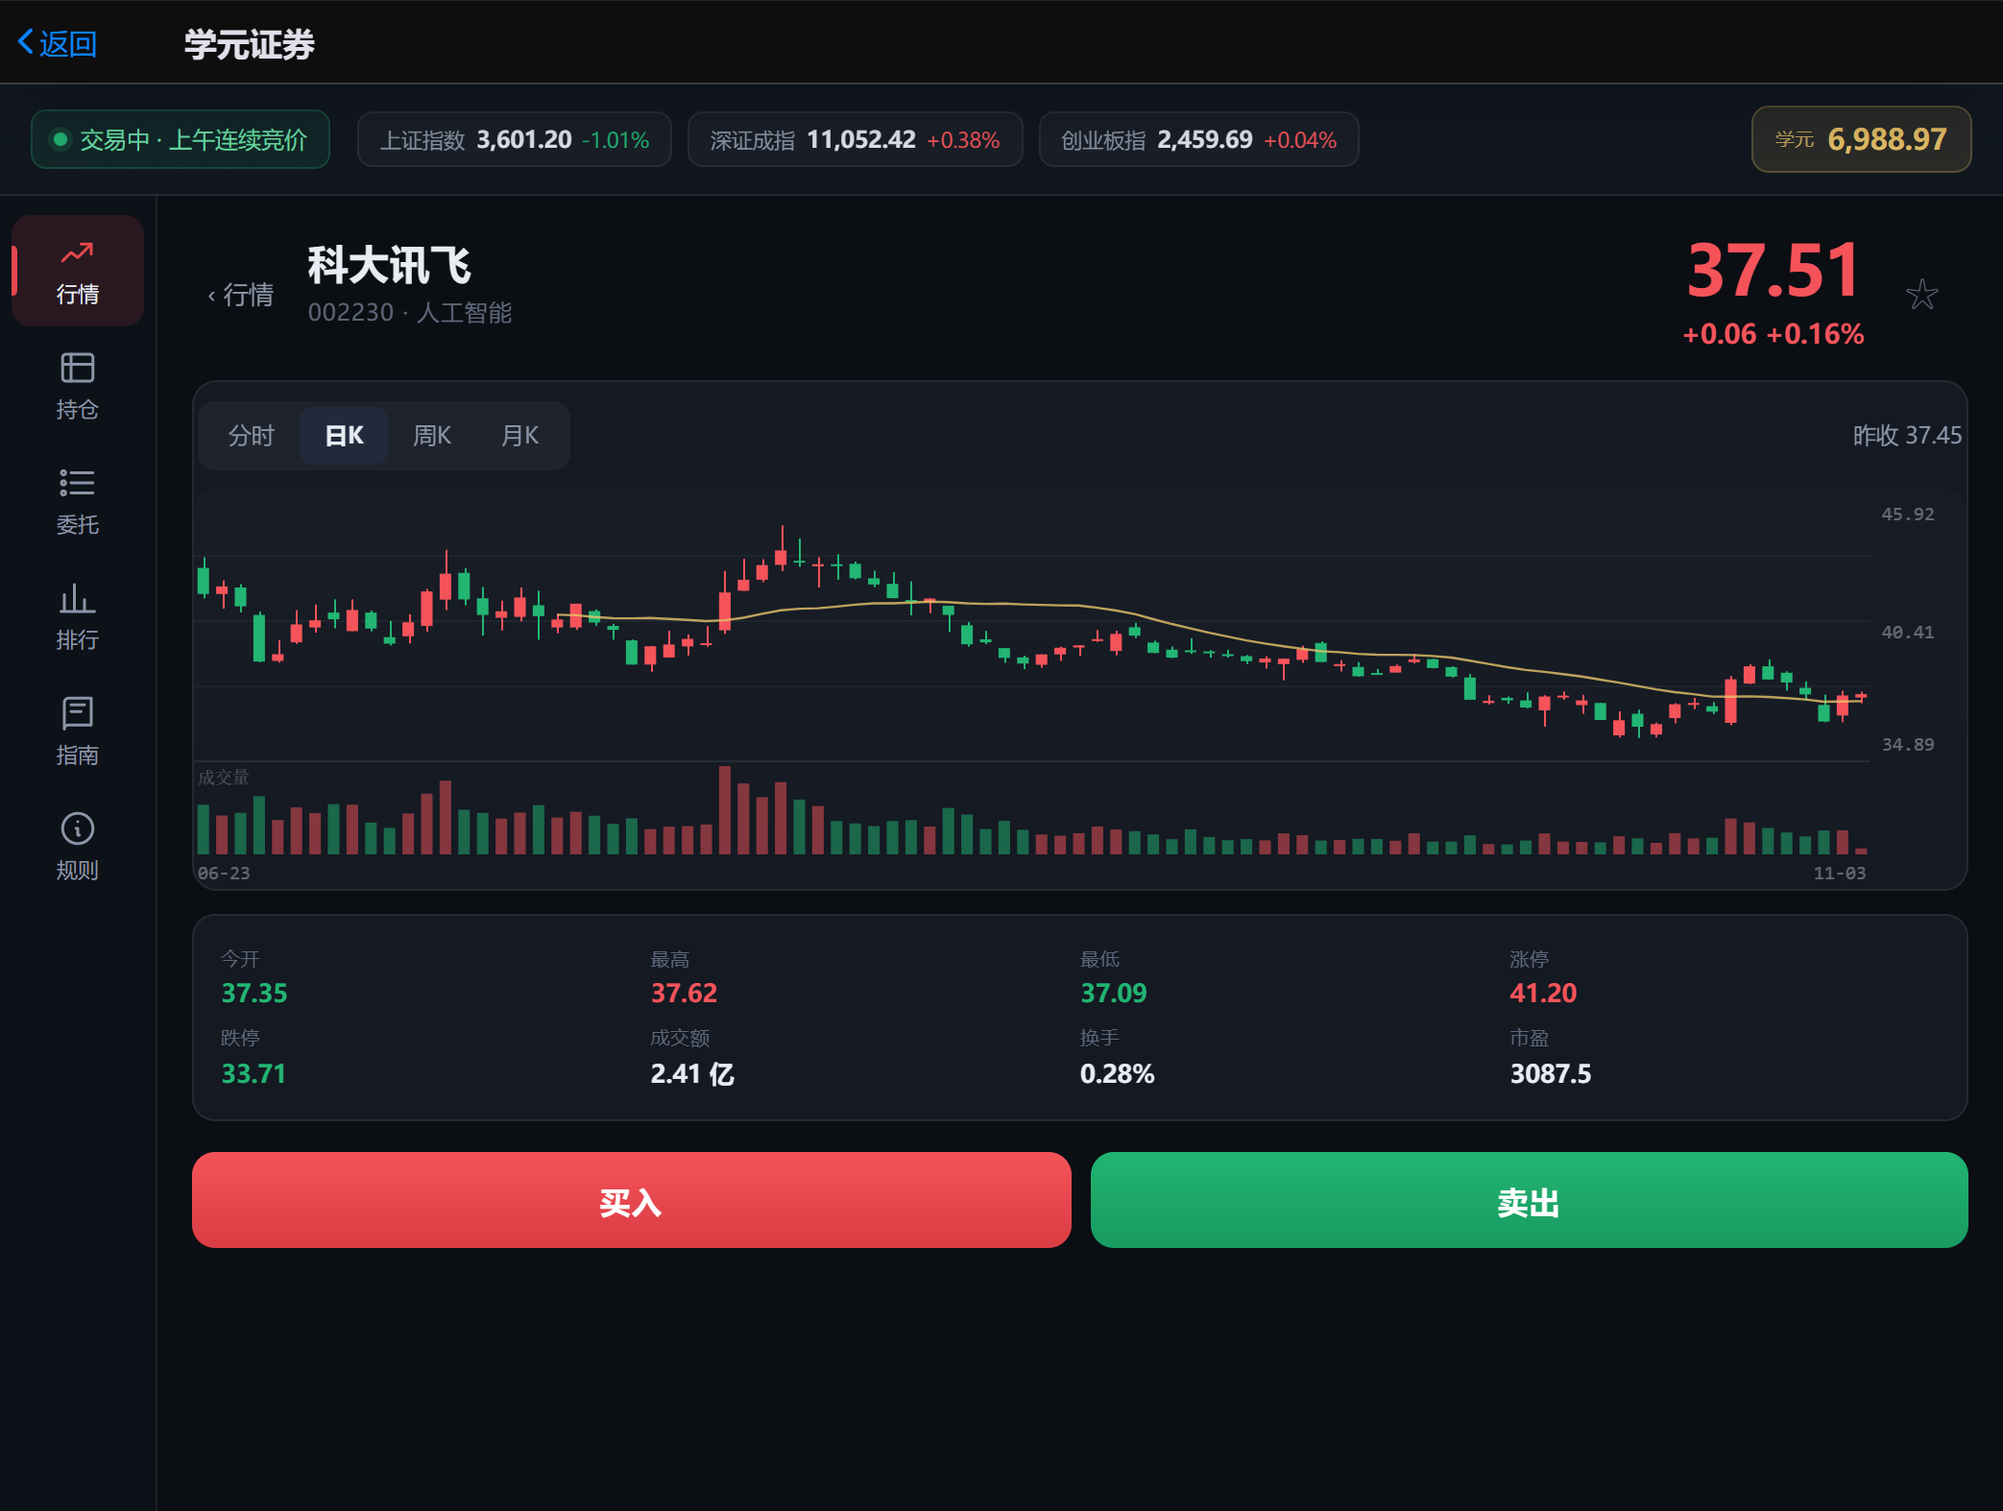
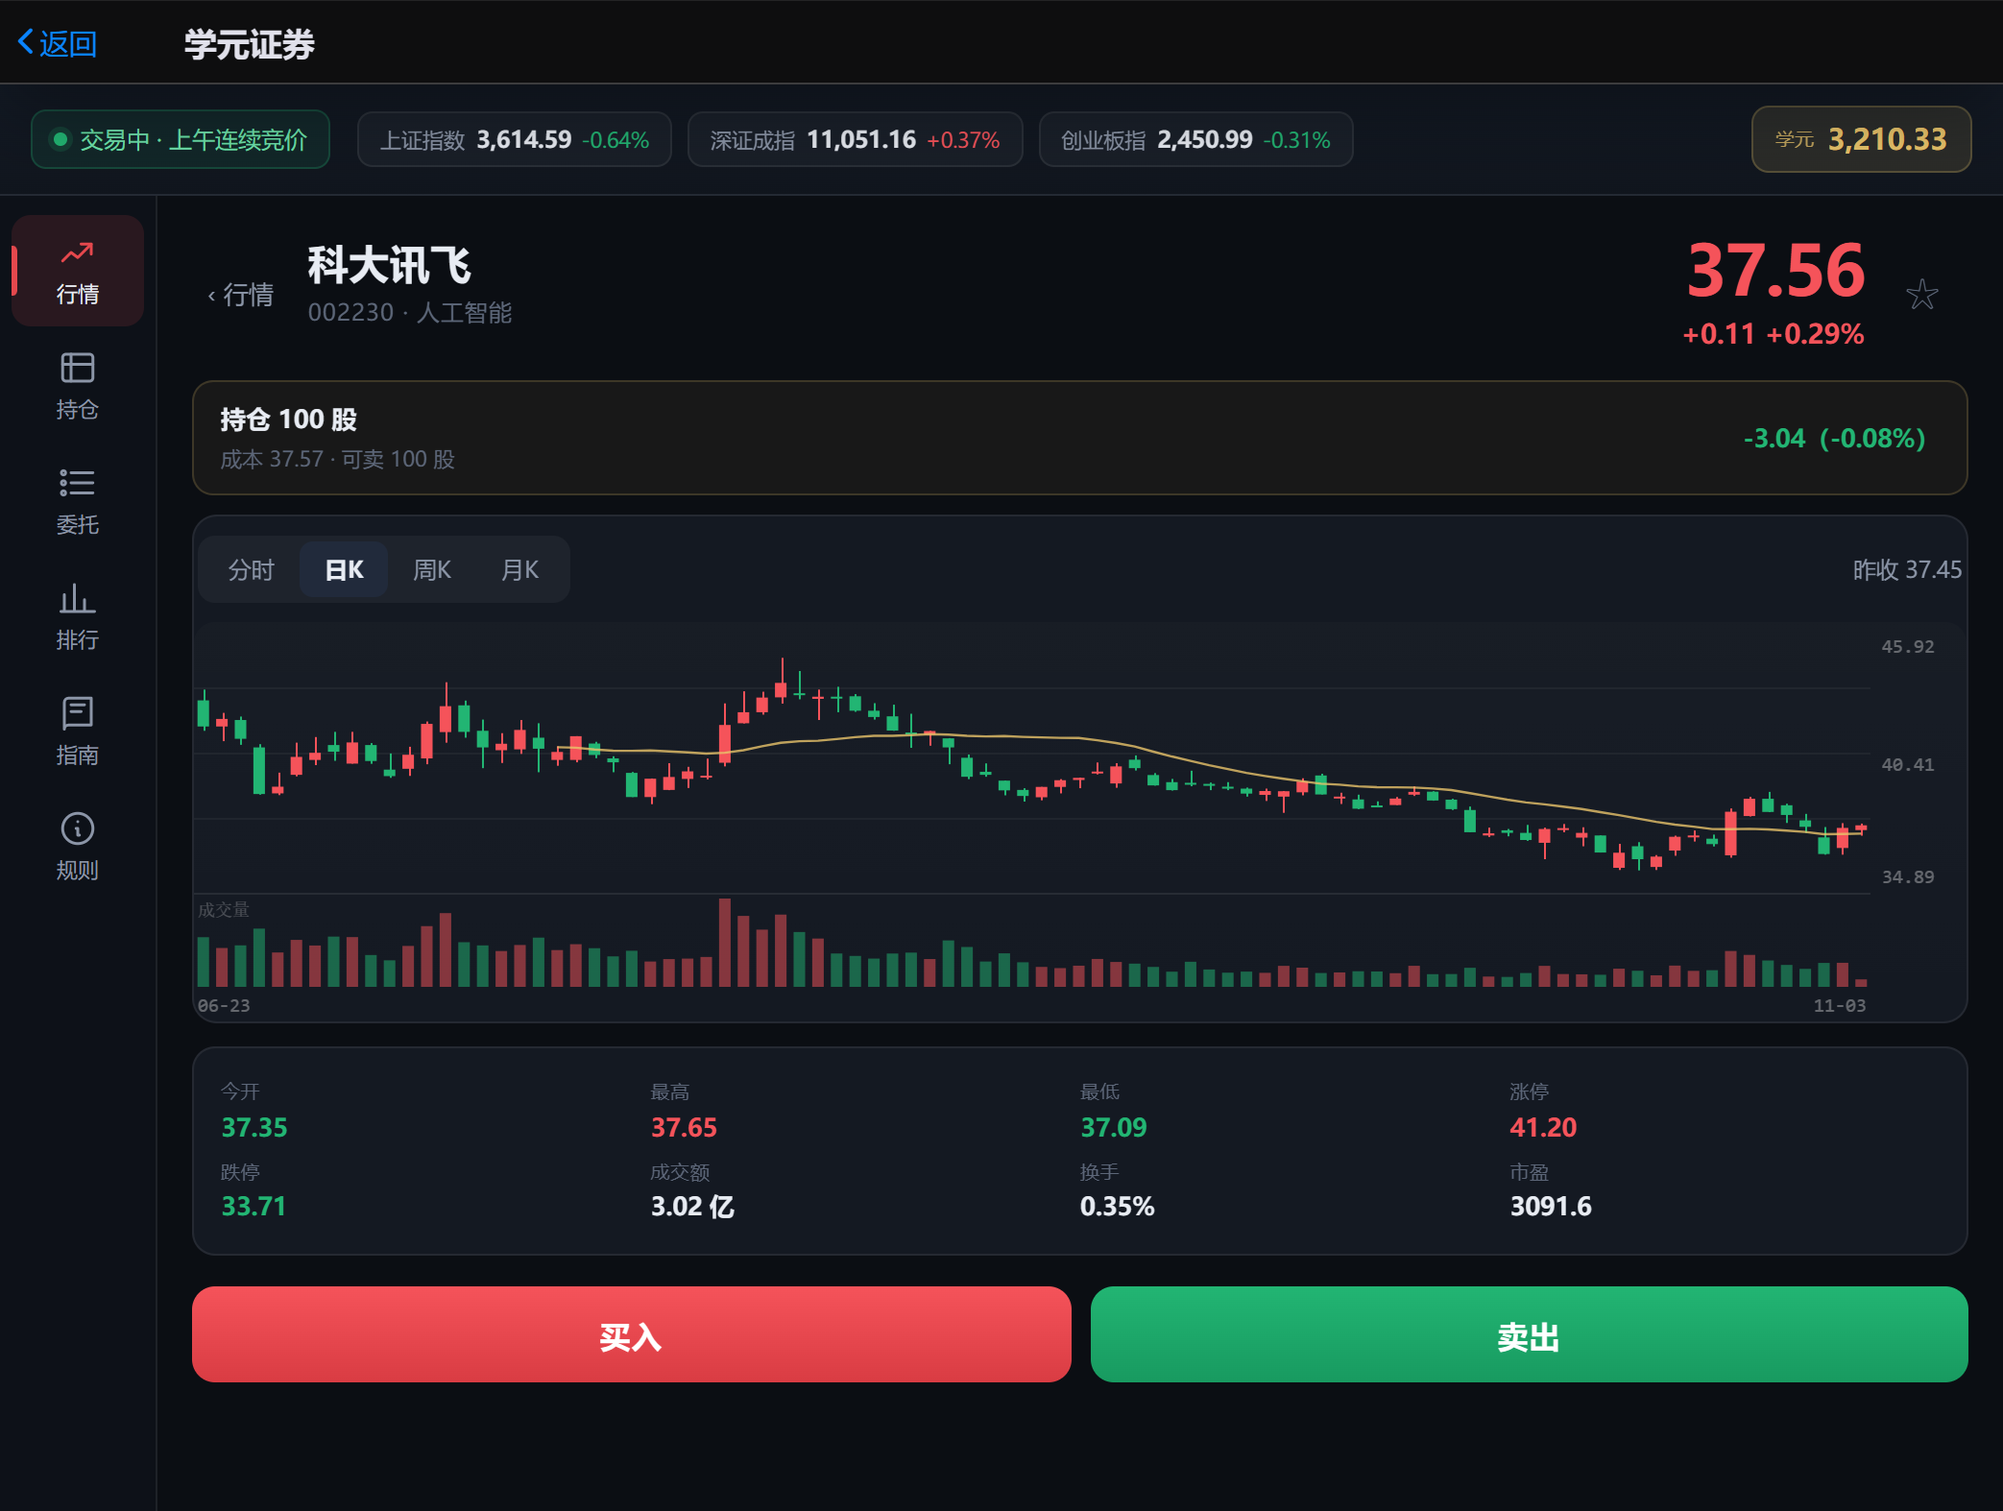
feat(stock): 学元证券 v1.6.0 —— T+0 当天可卖 + 持仓速览 + 成交费用明细
- T+1 → T+0：当天买入当天就能卖（平板不是天天开机的客观限制），卖出所得立即可再买；买入时 available_qty 与 qty 同步增加，settleT1 保留作老数据兜底
- 规则页/指南/引导/委托提示统一改写：本盘 T+0，真实 A 股仍是 T+1（教学口径不能错）
- 新增详情页「持仓速览」条：持仓/成本/可卖/浮盈，点一下跳持仓页
- 成交记录点击查看费用明细（佣金/印花税/过户费/已实现盈亏）
- e2e 125/125（含 T+0 卖出、当天买回）、ui-probe 61/61；index 升 29

diff --git a/apps/stock/frontend/entry.js b/apps/stock/frontend/entry.js
@@ -783,6 +783,34 @@
     top.appendChild(star);
     wrap.appendChild(top);
 
+    // 持仓速览：看 K 线的时候就知道自己的成本，不用来回切「持仓」页
+    var myPos = null;
+    if (S.overview && S.overview.summary && S.overview.summary.positions) {
+      var ps = S.overview.summary.positions;
+      for (var pi = 0; pi < ps.length; pi++) {
+        if (ps[pi].code === S.detailCode) { myPos = ps[pi]; break; }
+      }
+    }
+    if (myPos) {
+      var strip = h('div', 'detail-pos');
+      var dpL = h('div', 'dp-left');
+      dpL.appendChild(h('div', 'dp-main', '持仓 ' + myPos.qty + ' 股'));
+      dpL.appendChild(h('div', 'dp-sub', '成本 ' + fmt(myPos.avg_cost, 2) + ' · 可卖 ' + myPos.available_qty + ' 股'));
+      strip.appendChild(dpL);
+      strip.appendChild(h('div', 'dp-pnl num ' + trendClass(myPos.pnl),
+        signed(myPos.pnl) + '（' + pct(myPos.pnl_pct) + '）'));
+      strip.onclick = function () {
+        S.tab = 'positions';
+        S.detailCode = '';
+        S.detail = null;
+        S.detailQuote = null;
+        renderNav();
+        renderMain();
+        loadTab('positions');
+      };
+      wrap.appendChild(strip);
+    }
+
     // 图表
     var chartCard = h('div', 'card');
     var tabs = h('div', 'chart-tabs');
@@ -1128,8 +1156,8 @@
 
     wrap.appendChild(achievementsCard());
 
-    // 底部说明：T+1
-    var note = h('div', 'submit-warn', '当日买入的股票需下一交易日才能卖出（T+1）。带「锁」标记的是今日买入、暂不可卖的部分。');
+    // 底部说明：T+0（教学盘放宽）
+    var note = h('div', 'submit-warn', '今天买入的股票也能立刻卖出（教学盘放宽了真实 A 股的 T+1，因为平板不是天天开机）。真实市场记住：A 股是次日才能卖。');
     wrap.appendChild(note);
     return wrap;
   }
@@ -1262,6 +1290,20 @@
         c4.appendChild(h('div', null, money(t.amount)));
         c4.appendChild(h('div', 'flat', '费 ' + fmt(t.fee, 2)));
         row.appendChild(c4);
+        // 点一行看费用明细：佣金 / 印花税 / 过户费 —— 「为什么赚了却少了钱」都在这
+        (function (tr, rw) {
+          rw.onclick = function () {
+            var fd = tr.fee_detail || {};
+            var parts = [
+              '佣金 ' + fmt(fd.commission || 0, 2),
+              '印花税 ' + fmt(fd.stamp || 0, 2),
+              '过户费 ' + fmt(fd.transfer || 0, 2)
+            ];
+            var extra = tr.side === 'sell' ? ' · 已实现 ' + signed(tr.realized) : '';
+            toast(tr.name + ' ' + tr.side_label + ' ' + tr.qty + ' 股 @' + fmt(tr.price, 2) +
+              '：' + parts.join(' · ') + extra + '（合计 ' + fmt(tr.fee, 2) + ' 学元）');
+          };
+        })(t, row);
         tc.appendChild(row);
       }
       wrap.appendChild(tc);
@@ -1578,7 +1620,7 @@
     {
       target: null,
       title: '三条最重要的规则',
-      body: '<b>T+1</b>：今天买的明天才能卖。<br><b>手续费</b>：一买一卖至少 10 学元起，交易越勤亏得越快。<br><b>涨跌停</b>：涨停买不到、跌停卖不掉 —— 挂上了不等于会成交。'
+      body: '<b>T+0（本盘）</b>：当天买的当天就能卖 —— 平板不是天天开机，不卡你。<br><b>手续费</b>：一买一卖至少 10 学元起，交易越勤亏得越快。<br><b>涨跌停</b>：涨停买不到、跌停卖不掉 —— 挂上了不等于会成交。'
     }
   ];
 
@@ -1747,9 +1789,10 @@
         '<p>一买一卖 ≈ <b>15 元</b>，相当于 0.15%。每周买卖 5 次，一个月光手续费就吃掉 3% —— 这就是「频繁交易」为什么不划算。</p>'
     },
     {
-      icon: '⏳', title: 'T+1：今天买，明天才能卖',
-      html: '<p>当日买入的股票，下一个交易日才可卖出。持仓页里带「锁」标记的就是今天买的、暂时不能卖的部分。</p>' +
-        '<p>卖出得到的学元当天就能用（可以继续买别的），但同一只股票不能当天买回来再卖。</p>'
+      icon: '⏳', title: '当天就能卖，但真实市场是 T+1',
+      html: '<p>本盘为了「平板不是天天开机」放宽成 <b>T+0</b>：今天买的股票今天就能卖，卖出得到的学元马上又能买别的。</p>' +
+        '<p>但请记住真实规则：<b>A 股是 T+1</b> —— 今天买入的股票，下一个交易日才能卖出。模拟盘的便利别变成真实交易的错误记忆；考试里「T+1」也是必考点。</p>' +
+        '<p>另外，同一只股票<b>不能当天买回来再卖</b>这种反复操作赚差价 —— 在真实 T+1 下你根本做不到，本盘也不建议这么练。</p>'
     },
     {
       icon: '🚧', title: '涨跌停',
@@ -1845,7 +1888,7 @@
     card.appendChild(ruleItem('随时都能下单', r.orderWindow));
     card.appendChild(ruleItem('什么时候成交', r.session_note + ' ' + r.matching));
     card.appendChild(ruleItem('市价单', r.market_order));
-    card.appendChild(ruleItem('T+1', r.t1));
+    card.appendChild(ruleItem('卖出限制（T+0）', r.t1));
     card.appendChild(ruleItem('涨跌停', r.limits));
     card.appendChild(ruleItem('交易单位', r.lot.note));
     card.appendChild(ruleItem('费用', '佣金 <b>万 2.5</b>（单笔最低 <b>5 元</b>，买卖双向）；印花税 <b>卖出 0.05%</b>；过户费 <b>0.001%</b>（双向）。'));
@@ -1976,7 +2019,7 @@
           ? maxBuyQty(st.cash.available, st.price)
           : (pos ? pos.available_qty : 0);
         if (st.maxQty <= 0) {
-          toast(side === 'sell' ? '没有可卖持仓（T+1）' : '可用学元不足', 'error');
+          toast(side === 'sell' ? '没有可卖持仓' : '可用学元不足', 'error');
           st.side = side === 'buy' ? 'sell' : 'buy';
           return;
         }
@@ -2144,8 +2187,8 @@
 
     var warn = h('div', 'submit-warn', st.side === 'buy'
       ? (st.type === 'market'
-        ? '市价单任何时间可下：开市时按最新价立即成交，休市时排队、开盘后按开盘价成交。买入后当日不可卖出（T+1）。'
-        : '委托长期有效，价格合适就成交；晚上和周末挂的单开盘后自动撮合。买入后当日不可卖出（T+1）。')
+        ? '市价单任何时间可下：开市时按最新价立即成交，休市时排队、开盘后按开盘价成交。当天买当天可卖（T+0，真实市场是 T+1）。'
+        : '委托长期有效，价格合适就成交；晚上和周末挂的单开盘后自动撮合。当天买当天可卖（T+0，真实市场是 T+1）。')
       : '卖出不收冻结，成交后学元直接到账；印花税与佣金在成交时扣除。');
     foot.appendChild(warn);
     sheet.appendChild(foot);

diff --git a/apps/stock/backend/trading.js b/apps/stock/backend/trading.js
@@ -2,16 +2,20 @@
 // ============================================================
 // 这里实现的是**真实 A 股规则**的模拟盘，钱是学元。
 // 与真实券商一致的部分（不要为了省事改掉，否则就成游戏了）：
-//   · T+1：当日买入次日才能卖
 //   · 涨跌停：主板 ±10%、创业板/科创板 ±20%，超价直接废单
 //   · 涨停买不到、跌停卖不掉（挂单排队，不强行成交）
 //   · 100 股一手；零股只能一次性卖出
 //   · 佣金万 2.5 最低 5 元、印花税卖出 0.05%、过户费 0.001%
-//   · 15:00 收盘，当日未成交委托自动失效并解冻
+//   · 9:25 集合竞价按开盘价撮合
 //
 // 与真实券商不同的部分（都是有意的）：
+//   · **T+0：当天买的当天就能卖**（2026-11-03）。校园平板不是天天开，
+//     T+1 会让「今天买的明天才能卖」直接卡死学生。真实 A 股仍是 T+1，
+//     规则页与指南都写明了这一点 —— 放宽体验，但不能记错规则。
+//   · **委托长期有效**：晚上/周末挂单不失效，开盘自动撮合；只有「委托价
+//     已出当日涨跌停范围」的死单会在撮合时作废并解冻。
 //   · 不撮合部分成交（学生资金量小，一次成交即可，也避免碎股）
-//   · 收盘后不接受隔夜委托（隔夜单会让学生忘记这单，反而更不真实）
+
 //
 // 编码约定：var / function
 
@@ -204,7 +208,7 @@ function placeOrder(userId, params) {
     // ---- 卖出 ----
     var pos = store.getPosition(userId, code);
     var sellable = pos ? pos.available_qty - frozenSellQty(userId, code) : 0;
-    if (!pos || sellable <= 0) throw TradeError('没有可卖持仓（当日买入需次日才能卖出）');
+    if (!pos || sellable <= 0) throw TradeError('没有可卖持仓（可卖数量 = 持仓 − 已挂卖单）');
     if (qty > sellable) throw TradeError('可卖数量不足（当前可卖 ' + sellable + ' 股）');
     if (qty < market.LOT_SIZE && qty !== sellable) {
       throw TradeError('零股（不足 100 股）必须一次性全部卖出');
@@ -361,14 +365,16 @@ function fillBuy(order, fillCent, amount, fees, now, today) {
       at: now
     });
 
-    // 2) 持仓：数量增加，可卖数量不变（T+1）
+    // 2) 持仓：数量与可卖数量一起增加（T+0）
+    // 2026-11-03 产品决策：校园平板不是天天开，T+1 会让「今天买的明天才能卖」
+    // 直接卡死学生 —— 教学盘改为当天可卖。真实 A 股仍是 T+1，规则页与指南都写明了。
     var pos = store.getPosition(order.user_id, order.code);
     if (pos) {
-      d.prepare('UPDATE stock_positions SET qty = qty + ?, cost_cent = cost_cent + ?, name = ?, updated_at = ? WHERE user_id = ? AND code = ?')
-        .run(order.qty, cost, order.name, now, order.user_id, order.code);
+      d.prepare('UPDATE stock_positions SET qty = qty + ?, available_qty = available_qty + ?, cost_cent = cost_cent + ?, name = ?, updated_at = ? WHERE user_id = ? AND code = ?')
+        .run(order.qty, order.qty, cost, order.name, now, order.user_id, order.code);
     } else {
-      d.prepare('INSERT INTO stock_positions (user_id, code, name, qty, available_qty, cost_cent, updated_at) VALUES (?, ?, ?, ?, 0, ?, ?)')
-        .run(order.user_id, order.code, order.name, order.qty, cost, now);
+      d.prepare('INSERT INTO stock_positions (user_id, code, name, qty, available_qty, cost_cent, updated_at) VALUES (?, ?, ?, ?, ?, ?, ?)')
+        .run(order.user_id, order.code, order.name, order.qty, order.qty, cost, now);
     }
 
     // 3) 订单与成交明细

diff --git a/apps/stock/backend/store.js b/apps/stock/backend/store.js
@@ -3,12 +3,13 @@
 // 第三方应用不能改宿主迁移，表由应用自己建、自己管（IF NOT EXISTS）。
 // 表名统一 stock_ 前缀，避免与宿主/其他应用撞名。
 //
-// ---- 持仓的两个数量字段（T+1 的核心）----
-//   qty           总持仓（含今日买入）
-//   available_qty 可卖数量（只有「昨日及以前买入」的部分）
-// T+1 解禁不是「到点触发」，而是在每个交易日首次访问账户时把
-// available_qty 补齐到 qty（幂等，靠 stock_account.last_settle_date 记日）。
-// 这样即使进程整夜没跑，第二天第一个用户请求也能拿到正确的可卖数量。
+// ---- 持仓的两个数量字段（2026-11-03 起 T+0）----
+//   qty           总持仓
+//   available_qty 可卖数量（现在买入即 +，与 qty 同步；真实 A 股是 T+1）
+// 历史上 T+1 靠「每个交易日首次访问账户时把 available_qty 补齐到 qty」解禁
+// （幂等，靠 stock_account.last_settle_date 记日）。改用 T+0 后买入直接加
+// available_qty，settleT1 仍保留 —— 它会把老库里被锁住的持仓一次性补齐，
+// 也会在每个交易日首次请求时兜底，别删。
 //
 // ---- 成本口径 ----
 // cost_cent 是「剩余持仓的总成本」（含买入费用），不是每股成本。

diff --git a/apps/stock/backend/routes.js b/apps/stock/backend/routes.js
@@ -507,7 +507,7 @@ router.get('/rules', wrap(function (req, res) {
       min_buy: market.MIN_BUY_QTY,
       note: '买入必须是 100 股的整数倍；零股只能一次性卖出。'
     },
-    t1: '当日买入的股票，下一个交易日才能卖出（T+1）。',
+    t1: '本盘当天买入当天就能卖（教学盘放宽了 T+0，因为平板不是天天开机）。但请记住：<b>真实 A 股是 T+1</b> —— 今天买入的股票，下一个交易日才能卖出，考试和真实交易都按 T+1 记。',
     limits: '主板涨跌停 ±10%，创业板/科创板 ±20%；涨停买不到、跌停卖不掉，委托会排队等开板。',
     matching: '成交价以最新市场价为准：限价买单不高于委托价成交，限价卖单不低于委托价成交。',
     expiry: '委托会一直有效，直到成交或你主动撤单。若委托价超出了当天的涨跌停范围（比如隔夜大跌后），会在下一次撮合时自动作废并解冻资金。',

diff --git a/apps/stock/frontend/style.css b/apps/stock/frontend/style.css
@@ -1332,6 +1332,23 @@
 .ci-stock .detail-star:active { background: rgba(255,255,255,.06); }
 .ci-stock .detail-star.on { color: var(--gold); }
 
+/* 详情页持仓速览 */
+.ci-stock .detail-pos {
+  display: flex;
+  align-items: center;
+  justify-content: space-between;
+  margin-bottom: 10px;
+  padding: 10px 14px;
+  background: rgba(232,195,106,.06);
+  border: 1px solid rgba(232,195,106,.18);
+  border-radius: 11px;
+  cursor: pointer;
+}
+.ci-stock .detail-pos:active { background: rgba(232,195,106,.1); }
+.ci-stock .dp-main { font-size: 13px; font-weight: 600; color: var(--text); }
+.ci-stock .dp-sub { font-size: 11px; color: var(--dim); margin-top: 3px; }
+.ci-stock .dp-pnl { font-size: 13px; font-weight: 600; }
+
 /* ================= 错误态（拉不到 ≠ 没有） ================= */
 .ci-stock .error-box {
   padding: 34px 20px;

diff --git a/apps/stock/backend/report.js b/apps/stock/backend/report.js
@@ -18,7 +18,7 @@ var store = require('./store');
 // 投教提醒池（按日期轮换，全班同一天看到同一条）
 var TIPS = [
   '手续费是真实的：一买一卖至少 10 学元起步，频繁交易的隐性成本比看起来高。',
-  'T+1 意味着今天买入的股票明天才能卖 —— 下单之前先想清楚这个价明天还认不认。',
+  '真实 A 股今天买入的股票要明天才能卖（T+1）；本盘为了平板使用习惯放宽了限制，但别把这个习惯带回真实市场。',
   '涨跌停买不到也卖不掉：涨停排队的不止你一个人，别把「挂上了」当成「会成交」。',
   '分散持仓不是平均买十只，而是让不同板块的涨跌互相缓冲。',
   '浮盈不是盈利：没卖掉之前，账户里那串绿色数字随时会变成绿色以外的另一种绿。',
